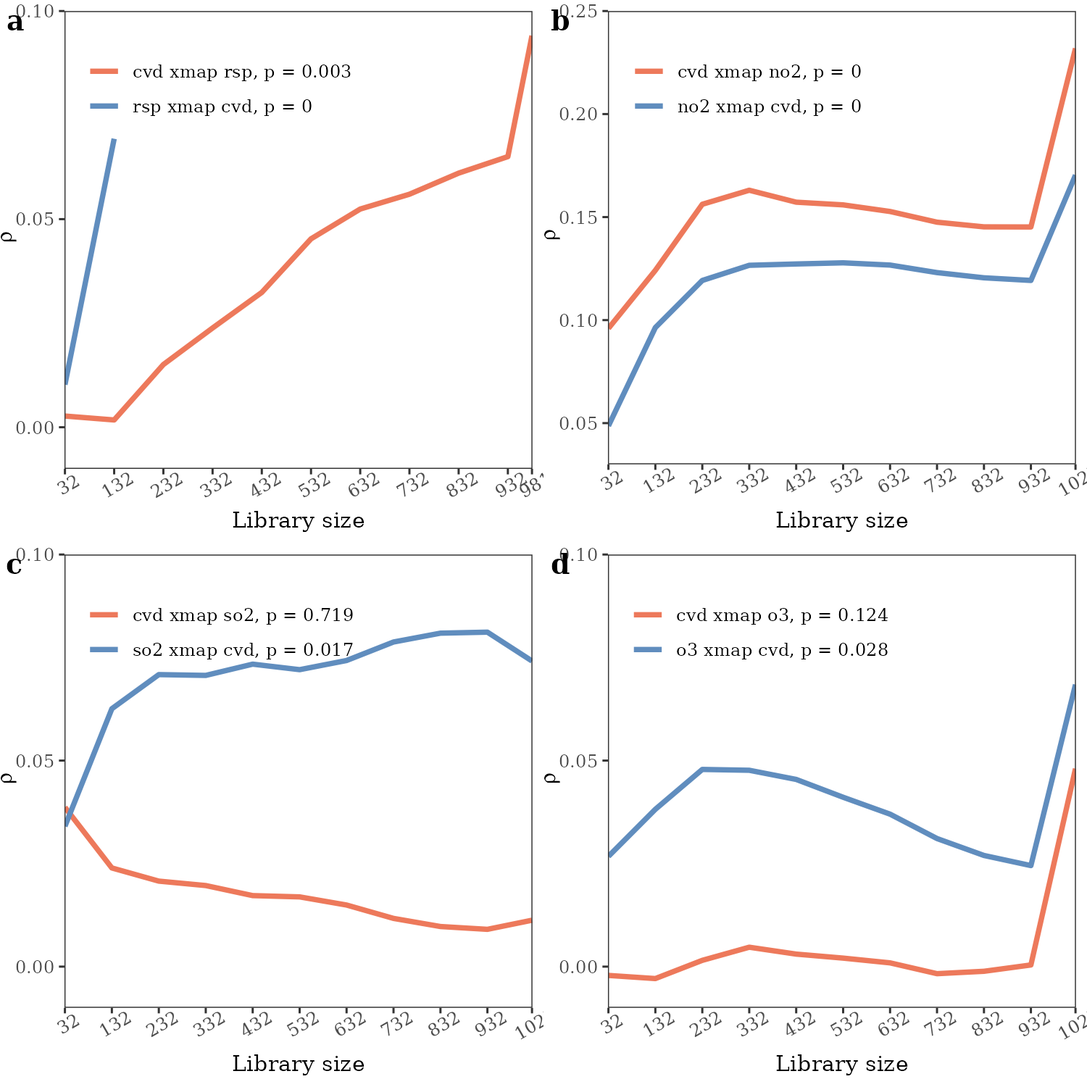
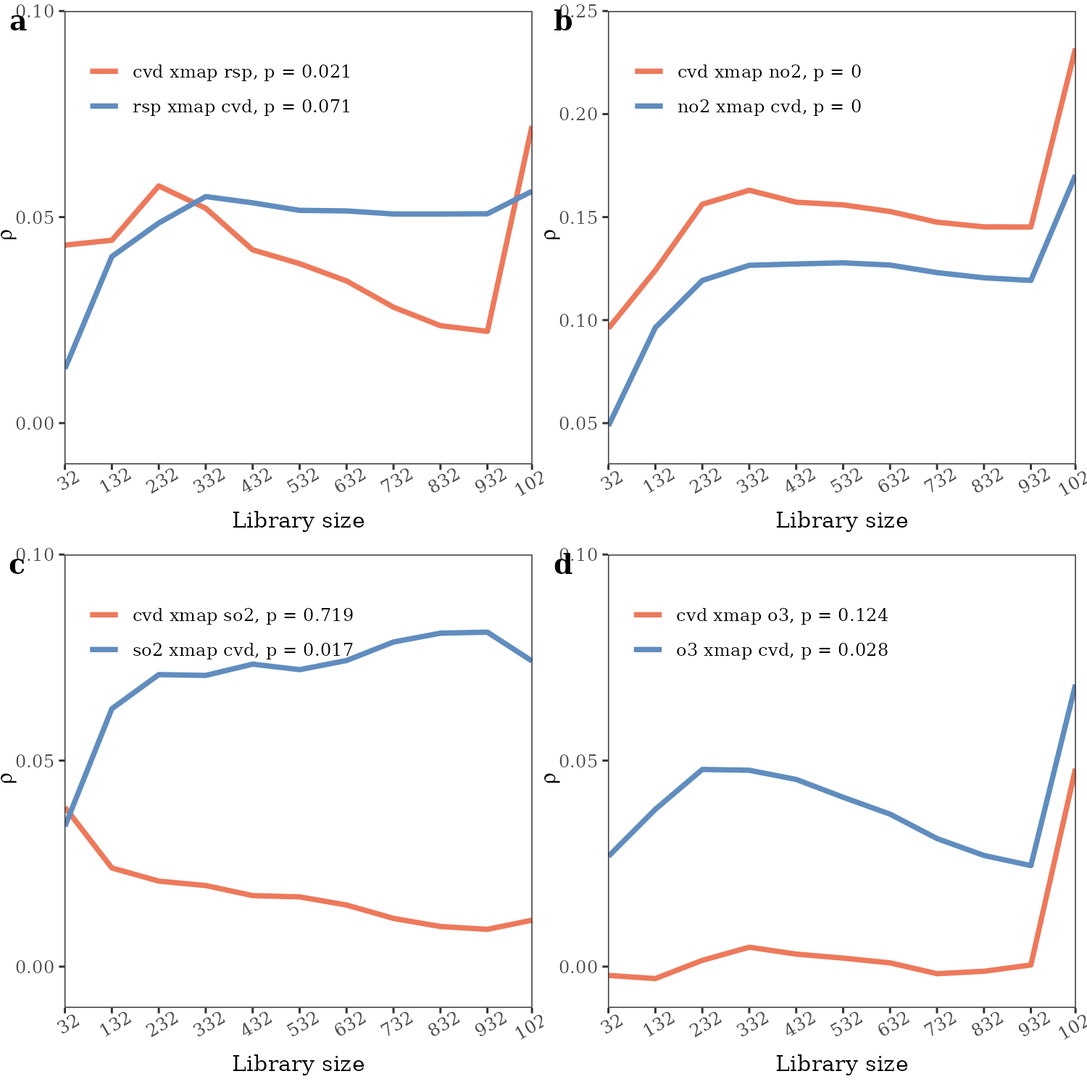
Deploying to gh-pages from @ stscl/tEDM@612b5ef85756db5e32b263942054adbb056851ff 🚀

diff --git a/articles/tEDM.html b/articles/tEDM.html
@@ -301,20 +301,20 @@ selection.</p>
 <p>We first use CCM to explore the causal influences of air pollutants
 on the incidence of cardiovascular diseases.</p>
 <div class="sourceCode" id="cb20"><pre class="downlit sourceCode r">
-<code class="sourceCode R"><span><span class="va">rsp_cvd</span> <span class="op">=</span> <span class="fu">tEDM</span><span class="fu">::</span><span class="fu"><a href="../reference/ccm.html">ccm</a></span><span class="op">(</span><span class="va">cvd</span>,<span class="st">"rsp"</span>,<span class="st">"cvd"</span>,libsizes <span class="op">=</span> <span class="fu"><a href="https://rdrr.io/r/base/seq.html" class="external-link">seq</a></span><span class="op">(</span><span class="fl">32</span>,<span class="fl">1032</span>,<span class="fl">100</span><span class="op">)</span>,E <span class="op">=</span> <span class="fl">5</span>,k <span class="op">=</span> <span class="fl">6</span>,tau <span class="op">=</span> <span class="fl">10</span>,progressbar <span class="op">=</span> <span class="cn">FALSE</span><span class="op">)</span></span>
+<code class="sourceCode R"><span><span class="va">rsp_cvd</span> <span class="op">=</span> <span class="fu">tEDM</span><span class="fu">::</span><span class="fu"><a href="../reference/ccm.html">ccm</a></span><span class="op">(</span><span class="va">cvd</span>,<span class="st">"rsp"</span>,<span class="st">"cvd"</span>,libsizes <span class="op">=</span> <span class="fu"><a href="https://rdrr.io/r/base/seq.html" class="external-link">seq</a></span><span class="op">(</span><span class="fl">32</span>,<span class="fl">1032</span>,<span class="fl">100</span><span class="op">)</span>,E <span class="op">=</span> <span class="fl">5</span>,k <span class="op">=</span> <span class="fl">6</span>,progressbar <span class="op">=</span> <span class="cn">FALSE</span><span class="op">)</span></span>
 <span><span class="va">rsp_cvd</span></span></code></pre></div>
-<pre><code><span><span class="co">##    libsizes    rsp-&gt;cvd   cvd-&gt;rsp</span></span>
-<span><span class="co">## 1        32 0.002690384 0.01023480</span></span>
-<span><span class="co">## 2       132 0.001748371 0.06931498</span></span>
-<span><span class="co">## 3       232 0.015064235 0.10838784</span></span>
-<span><span class="co">## 4       332 0.023844854 0.13292022</span></span>
-<span><span class="co">## 5       432 0.032392586 0.13824327</span></span>
-<span><span class="co">## 6       532 0.045262066 0.14058055</span></span>
-<span><span class="co">## 7       632 0.052424429 0.14163566</span></span>
-<span><span class="co">## 8       732 0.055982218 0.14136260</span></span>
-<span><span class="co">## 9       832 0.061051104 0.14261178</span></span>
-<span><span class="co">## 10      932 0.065020755 0.14407626</span></span>
-<span><span class="co">## 11      981 0.094071808 0.14984116</span></span></code></pre>
+<pre><code><span><span class="co">##    libsizes   rsp-&gt;cvd   cvd-&gt;rsp</span></span>
+<span><span class="co">## 1        32 0.04319516 0.01319450</span></span>
+<span><span class="co">## 2       132 0.04437840 0.04042972</span></span>
+<span><span class="co">## 3       232 0.05755968 0.04856251</span></span>
+<span><span class="co">## 4       332 0.05213455 0.05497566</span></span>
+<span><span class="co">## 5       432 0.04204529 0.05345864</span></span>
+<span><span class="co">## 6       532 0.03869321 0.05163371</span></span>
+<span><span class="co">## 7       632 0.03449846 0.05149252</span></span>
+<span><span class="co">## 8       732 0.02813186 0.05075322</span></span>
+<span><span class="co">## 9       832 0.02364578 0.05075094</span></span>
+<span><span class="co">## 10      932 0.02226927 0.05080212</span></span>
+<span><span class="co">## 11     1027 0.07212221 0.05626339</span></span></code></pre>
 <div class="sourceCode" id="cb22"><pre class="downlit sourceCode r">
 <code class="sourceCode R"><span><span class="va">no2_cvd</span> <span class="op">=</span> <span class="fu">tEDM</span><span class="fu">::</span><span class="fu"><a href="../reference/ccm.html">ccm</a></span><span class="op">(</span><span class="va">cvd</span>,<span class="st">"no2"</span>,<span class="st">"cvd"</span>,libsizes <span class="op">=</span> <span class="fu"><a href="https://rdrr.io/r/base/seq.html" class="external-link">seq</a></span><span class="op">(</span><span class="fl">32</span>,<span class="fl">1032</span>,<span class="fl">100</span><span class="op">)</span>,E <span class="op">=</span> <span class="fl">5</span>,k <span class="op">=</span> <span class="fu"><a href="https://rdrr.io/r/base/c.html" class="external-link">c</a></span><span class="op">(</span><span class="fl">8</span>,<span class="fl">6</span><span class="op">)</span>,progressbar <span class="op">=</span> <span class="cn">FALSE</span><span class="op">)</span></span>
 <span><span class="va">no2_cvd</span></span></code></pre></div>
@@ -368,12 +368,8 @@ on the incidence of cardiovascular diseases.</p>
 <span></span>
 <span><span class="va">fig2</span> <span class="op">=</span> <span class="fu">cowplot</span><span class="fu">::</span><span class="fu"><a href="https://wilkelab.org/cowplot/reference/plot_grid.html" class="external-link">plot_grid</a></span><span class="op">(</span><span class="va">figa</span>, <span class="va">figb</span>, <span class="va">figc</span>, <span class="va">figd</span>, ncol <span class="op">=</span> <span class="fl">2</span>,</span>
 <span>                         label_fontfamily <span class="op">=</span> <span class="st">'serif'</span>,</span>
-<span>                         labels <span class="op">=</span> <span class="va">letters</span><span class="op">[</span><span class="fl">1</span><span class="op">:</span><span class="fl">4</span><span class="op">]</span>,</span>
-<span>                         label_x <span class="op">=</span> <span class="op">-</span><span class="fl">0.005</span>, label_y <span class="op">=</span> <span class="fl">1</span><span class="op">)</span></span></code></pre></div>
-<pre><code><span><span class="co">## Warning: Removed 9 rows containing missing values or values outside the scale range</span></span>
-<span><span class="co">## (`geom_line()`).</span></span></code></pre>
-<div class="sourceCode" id="cb30"><pre class="downlit sourceCode r">
-<code class="sourceCode R"><span><span class="va">fig2</span></span></code></pre></div>
+<span>                         labels <span class="op">=</span> <span class="va">letters</span><span class="op">[</span><span class="fl">1</span><span class="op">:</span><span class="fl">4</span><span class="op">]</span><span class="op">)</span></span>
+<span><span class="va">fig2</span></span></code></pre></div>
 <div class="figure">
 <img src="tEDM_files/figure-html/fig2-1.png" alt="**Figure 2**. Cross-mapping results between different air pollutants and cardiovascular diseases." width="750"><p class="caption">
 <strong>Figure 2</strong>. Cross-mapping results between different air
@@ -395,23 +391,23 @@ causal influences:</p>
 and spatial pollution is likely reflective rather than causal.
 Therefore, we further employ CCM to examine the causal paths of cvd →
 no₂ and cvd → o₃.</p>
-<div class="sourceCode" id="cb31"><pre class="downlit sourceCode r">
+<div class="sourceCode" id="cb29"><pre class="downlit sourceCode r">
 <code class="sourceCode R"><span><span class="va">g1</span> <span class="op">=</span> <span class="fu">tEDM</span><span class="fu">::</span><span class="fu"><a href="../reference/cmc.html">cmc</a></span><span class="op">(</span><span class="va">cvd</span>,<span class="st">"o3"</span>,<span class="st">"cvd"</span>,E <span class="op">=</span> <span class="fl">5</span>,k <span class="op">=</span> <span class="fl">100</span>,progressbar <span class="op">=</span> <span class="cn">FALSE</span><span class="op">)</span></span>
 <span><span class="va">g1</span></span></code></pre></div>
 <pre><code><span><span class="co">##   neighbors o3-&gt;cvd cvd-&gt;o3</span></span>
 <span><span class="co">## 1       100  0.2344  0.5589</span></span></code></pre>
-<div class="sourceCode" id="cb33"><pre class="downlit sourceCode r">
+<div class="sourceCode" id="cb31"><pre class="downlit sourceCode r">
 <code class="sourceCode R"><span><span class="va">g1</span><span class="op">$</span><span class="va">xmap</span></span></code></pre></div>
 <pre><code><span><span class="co">##   neighbors x_xmap_y_mean x_xmap_y_sig x_xmap_y_upper x_xmap_y_lower</span></span>
 <span><span class="co">## 1       100        0.5589     0.188823      0.6467507      0.4710493</span></span>
 <span><span class="co">##   y_xmap_x_mean y_xmap_x_sig y_xmap_x_upper y_xmap_x_lower</span></span>
 <span><span class="co">## 1        0.2344 2.138197e-12      0.3085003      0.1602997</span></span></code></pre>
-<div class="sourceCode" id="cb35"><pre class="downlit sourceCode r">
+<div class="sourceCode" id="cb33"><pre class="downlit sourceCode r">
 <code class="sourceCode R"><span><span class="va">g2</span> <span class="op">=</span> <span class="fu">tEDM</span><span class="fu">::</span><span class="fu"><a href="../reference/cmc.html">cmc</a></span><span class="op">(</span><span class="va">cvd</span>,<span class="st">"no2"</span>,<span class="st">"cvd"</span>,E <span class="op">=</span> <span class="fl">5</span>,k <span class="op">=</span> <span class="fl">100</span>,progressbar <span class="op">=</span> <span class="cn">FALSE</span><span class="op">)</span></span>
 <span><span class="va">g2</span></span></code></pre></div>
 <pre><code><span><span class="co">##   neighbors no2-&gt;cvd cvd-&gt;no2</span></span>
 <span><span class="co">## 1       100   0.4833   0.5363</span></span></code></pre>
-<div class="sourceCode" id="cb37"><pre class="downlit sourceCode r">
+<div class="sourceCode" id="cb35"><pre class="downlit sourceCode r">
 <code class="sourceCode R"><span><span class="va">g2</span><span class="op">$</span><span class="va">xmap</span></span></code></pre></div>
 <pre><code><span><span class="co">##   neighbors x_xmap_y_mean x_xmap_y_sig x_xmap_y_upper x_xmap_y_lower</span></span>
 <span><span class="co">## 1       100        0.5363    0.4205595      0.6246315      0.4479685</span></span>
@@ -427,7 +423,7 @@ different air pollutants. However, due to space constraints in this
 vignette, we limit our analysis to a single test case — specifically,
 examining whether <strong>NO₂</strong> exerts a causal influence on
 <strong>Respirable Suspended Particulates (rsp)</strong>.</p>
-<div class="sourceCode" id="cb39"><pre class="downlit sourceCode r">
+<div class="sourceCode" id="cb37"><pre class="downlit sourceCode r">
 <code class="sourceCode R"><span><span class="va">no2_rsp</span> <span class="op">=</span> <span class="fu">tEDM</span><span class="fu">::</span><span class="fu"><a href="../reference/pcm.html">pcm</a></span><span class="op">(</span><span class="va">cvd</span>,<span class="st">"no2"</span>,<span class="st">"rsp"</span>,<span class="st">"cvd"</span>,libsizes <span class="op">=</span> <span class="fu"><a href="https://rdrr.io/r/base/seq.html" class="external-link">seq</a></span><span class="op">(</span><span class="fl">32</span>,<span class="fl">1032</span>,<span class="fl">100</span><span class="op">)</span>,E <span class="op">=</span> <span class="fl">5</span>,k <span class="op">=</span> <span class="fu"><a href="https://rdrr.io/r/base/c.html" class="external-link">c</a></span><span class="op">(</span><span class="fl">8</span>,<span class="fl">6</span>,<span class="fl">6</span><span class="op">)</span>,progressbar <span class="op">=</span> <span class="cn">FALSE</span><span class="op">)</span></span>
 <span><span class="va">no2_rsp</span></span></code></pre></div>
 <pre><code><span><span class="co">## -------------------------------------- </span></span>
@@ -461,14 +457,13 @@ examining whether <strong>NO₂</strong> exerts a causal influence on
 <span><span class="co">## 9       832 0.7399319 0.7481982</span></span>
 <span><span class="co">## 10      932 0.7399475 0.7481772</span></span>
 <span><span class="co">## 11     1027 0.7623938 0.7574991</span></span></code></pre>
-<div class="sourceCode" id="cb41"><pre class="downlit sourceCode r">
-<code class="sourceCode R"><span><span class="va">figa</span> <span class="op">=</span> <span class="fu"><a href="https://rdrr.io/r/graphics/plot.default.html" class="external-link">plot</a></span><span class="op">(</span><span class="va">no2_rsp</span>,ylimits <span class="op">=</span> <span class="fu"><a href="https://rdrr.io/r/base/c.html" class="external-link">c</a></span><span class="op">(</span><span class="fl">0.5</span>,<span class="fl">0.85</span><span class="op">)</span>,ybreaks <span class="op">=</span> <span class="fu"><a href="https://rdrr.io/r/base/seq.html" class="external-link">seq</a></span><span class="op">(</span><span class="fl">0.5</span>,<span class="fl">0.85</span>,<span class="fl">0.05</span><span class="op">)</span><span class="op">)</span></span>
-<span><span class="va">figb</span> <span class="op">=</span> <span class="fu"><a href="https://rdrr.io/r/graphics/plot.default.html" class="external-link">plot</a></span><span class="op">(</span><span class="va">no2_rsp</span>,partial <span class="op">=</span> <span class="cn">TRUE</span>,ylimits <span class="op">=</span> <span class="fu"><a href="https://rdrr.io/r/base/c.html" class="external-link">c</a></span><span class="op">(</span><span class="fl">0.5</span>,<span class="fl">0.85</span><span class="op">)</span>,ybreaks <span class="op">=</span> <span class="fu"><a href="https://rdrr.io/r/base/seq.html" class="external-link">seq</a></span><span class="op">(</span><span class="fl">0.5</span>,<span class="fl">0.85</span>,<span class="fl">0.05</span><span class="op">)</span><span class="op">)</span></span>
+<div class="sourceCode" id="cb39"><pre class="downlit sourceCode r">
+<code class="sourceCode R"><span><span class="va">figa</span> <span class="op">=</span> <span class="fu"><a href="https://rdrr.io/r/graphics/plot.default.html" class="external-link">plot</a></span><span class="op">(</span><span class="va">no2_rsp</span>,partial <span class="op">=</span> <span class="cn">FALSE</span>,ylimits <span class="op">=</span> <span class="fu"><a href="https://rdrr.io/r/base/c.html" class="external-link">c</a></span><span class="op">(</span><span class="fl">0.5</span>,<span class="fl">0.85</span><span class="op">)</span>,ybreaks <span class="op">=</span> <span class="fu"><a href="https://rdrr.io/r/base/seq.html" class="external-link">seq</a></span><span class="op">(</span><span class="fl">0.5</span>,<span class="fl">0.85</span>,<span class="fl">0.05</span><span class="op">)</span><span class="op">)</span></span>
+<span><span class="va">figb</span> <span class="op">=</span> <span class="fu"><a href="https://rdrr.io/r/graphics/plot.default.html" class="external-link">plot</a></span><span class="op">(</span><span class="va">no2_rsp</span>,ylimits <span class="op">=</span> <span class="fu"><a href="https://rdrr.io/r/base/c.html" class="external-link">c</a></span><span class="op">(</span><span class="fl">0.5</span>,<span class="fl">0.85</span><span class="op">)</span>,ybreaks <span class="op">=</span> <span class="fu"><a href="https://rdrr.io/r/base/seq.html" class="external-link">seq</a></span><span class="op">(</span><span class="fl">0.5</span>,<span class="fl">0.85</span>,<span class="fl">0.05</span><span class="op">)</span><span class="op">)</span></span>
 <span></span>
 <span><span class="va">fig3</span> <span class="op">=</span> <span class="fu">cowplot</span><span class="fu">::</span><span class="fu"><a href="https://wilkelab.org/cowplot/reference/plot_grid.html" class="external-link">plot_grid</a></span><span class="op">(</span><span class="va">figa</span>, <span class="va">figb</span>, ncol <span class="op">=</span> <span class="fl">2</span>,</span>
 <span>                          label_fontfamily <span class="op">=</span> <span class="st">'serif'</span>,</span>
-<span>                          labels <span class="op">=</span> <span class="va">letters</span><span class="op">[</span><span class="fl">1</span><span class="op">:</span><span class="fl">2</span><span class="op">]</span>,</span>
-<span>                          label_x <span class="op">=</span> <span class="op">-</span><span class="fl">0.005</span>, label_y <span class="op">=</span> <span class="fl">1</span><span class="op">)</span></span>
+<span>                          labels <span class="op">=</span> <span class="va">letters</span><span class="op">[</span><span class="fl">1</span><span class="op">:</span><span class="fl">2</span><span class="op">]</span><span class="op">)</span></span>
 <span><span class="va">fig3</span></span></code></pre></div>
 <div class="figure">
 <img src="tEDM_files/figure-html/fig3-1.png" alt="**Figure 3**. Cross-mapping results between no₂ and respirable suspended particulates. **a**. CCM results without accounting for other variables. **b**. PCM results controlling for the influence of CVDs." width="650"><p class="caption">
@@ -484,11 +479,11 @@ differences and are both statistically significant, indicating the
 presence of a causal relationship between the two. Therefore, the final
 set of confirmed causal pathways is as follows (exclude those with no
 causal influence on CVDs):</p>
-<pre class="mermaid"><code>graph TD
-  rsp[Respirable suspended particulates (rsp)] --&gt; cvd[Cardiovascular diseases (cvd)]
-  no2[Nitrogen dioxide (no₂)] --&gt; cvd
-  no2 --&gt; rsp
-  rsp --&gt; no2</code></pre>
+<div class="float">
+<img src="../reference/figures/edm/hk-cvd.png" alt="Figure 4. Causal interactions between air pollutants and cardiovascular diseases in Hong Kong."><div class="figcaption">
+<strong>Figure 4</strong>. Causal interactions
+between air pollutants and cardiovascular diseases in Hong Kong.</div>
+</div>
 </div>
 <div class="section level3">
 <h3 id="us-county-carbon-emissions-and-temperature-dynamics">US County Carbon Emissions and Temperature Dynamics<a class="anchor" aria-label="anchor" href="#us-county-carbon-emissions-and-temperature-dynamics"></a>
@@ -496,7 +491,7 @@ causal influence on CVDs):</p>
 <p>To examine whether a causal relationship exists between annual mean
 temperature and total annual CO₂ emissions, we implement the CMC method
 across counties.</p>
-<div class="sourceCode" id="cb43"><pre class="downlit sourceCode r">
+<div class="sourceCode" id="cb40"><pre class="downlit sourceCode r">
 <code class="sourceCode R"><span><span class="kw"><a href="https://rdrr.io/r/base/library.html" class="external-link">library</a></span><span class="op">(</span><span class="va"><a href="https://stscl.github.io/tEDM/">tEDM</a></span><span class="op">)</span></span>
 <span></span>
 <span><span class="va">carbon</span> <span class="op">=</span> <span class="fu">readr</span><span class="fu">::</span><span class="fu"><a href="https://readr.tidyverse.org/reference/read_delim.html" class="external-link">read_csv</a></span><span class="op">(</span><span class="fu"><a href="https://rdrr.io/r/base/system.file.html" class="external-link">system.file</a></span><span class="op">(</span><span class="st">"case/carbon.csv.gz"</span>,package <span class="op">=</span> <span class="st">"tEDM"</span><span class="op">)</span><span class="op">)</span></span></code></pre></div>
@@ -507,7 +502,7 @@ across counties.</p>
 <span><span class="co">## </span></span>
 <span><span class="co">## <span style="color: #00BBBB;">ℹ</span> Use `spec()` to retrieve the full column specification for this data.</span></span>
 <span><span class="co">## <span style="color: #00BBBB;">ℹ</span> Specify the column types or set `show_col_types = FALSE` to quiet this message.</span></span></code></pre>
-<div class="sourceCode" id="cb45"><pre class="downlit sourceCode r">
+<div class="sourceCode" id="cb42"><pre class="downlit sourceCode r">
 <code class="sourceCode R"><span><span class="fu"><a href="https://rdrr.io/r/utils/head.html" class="external-link">head</a></span><span class="op">(</span><span class="va">carbon</span><span class="op">)</span></span></code></pre></div>
 <pre><code><span><span class="co">## <span style="color: #949494;"># A tibble: 6 × 4</span></span></span>
 <span><span class="co">##    year  fips   tem     carbon</span></span>
@@ -518,13 +513,13 @@ across counties.</p>
 <span><span class="co">## <span style="color: #BCBCBC;">4</span>  <span style="text-decoration: underline;">1</span>984  <span style="text-decoration: underline;">1</span>001  17.8 199<span style="text-decoration: underline;">157</span>579.</span></span>
 <span><span class="co">## <span style="color: #BCBCBC;">5</span>  <span style="text-decoration: underline;">1</span>985  <span style="text-decoration: underline;">1</span>001  17.9 205<span style="text-decoration: underline;">207</span>564.</span></span>
 <span><span class="co">## <span style="color: #BCBCBC;">6</span>  <span style="text-decoration: underline;">1</span>986  <span style="text-decoration: underline;">1</span>001  18.5 218<span style="text-decoration: underline;">446</span>030.</span></span></code></pre>
-<div class="sourceCode" id="cb47"><pre class="downlit sourceCode r">
+<div class="sourceCode" id="cb44"><pre class="downlit sourceCode r">
 <code class="sourceCode R"><span><span class="va">carbon_list</span> <span class="op">=</span> <span class="fu">dplyr</span><span class="fu">::</span><span class="fu"><a href="https://dplyr.tidyverse.org/reference/group_split.html" class="external-link">group_split</a></span><span class="op">(</span><span class="va">carbon</span>, by <span class="op">=</span> <span class="va">fips</span><span class="op">)</span></span>
 <span><span class="fu"><a href="https://rdrr.io/r/base/length.html" class="external-link">length</a></span><span class="op">(</span><span class="va">carbon_list</span><span class="op">)</span></span></code></pre></div>
 <pre><code><span><span class="co">## [1] 3071</span></span></code></pre>
 <p>Using the 100th county as an example, we determine the appropriate
 embedding dimension by applying the FNN method.</p>
-<div class="sourceCode" id="cb49"><pre class="downlit sourceCode r">
+<div class="sourceCode" id="cb46"><pre class="downlit sourceCode r">
 <code class="sourceCode R"><span><span class="fu">tEDM</span><span class="fu">::</span><span class="fu"><a href="../reference/fnn.html">fnn</a></span><span class="op">(</span><span class="va">carbon_list</span><span class="op">[[</span><span class="fl">100</span><span class="op">]</span><span class="op">]</span>,<span class="st">"carbon"</span>,E <span class="op">=</span> <span class="fl">2</span><span class="op">:</span><span class="fl">10</span>,eps <span class="op">=</span> <span class="fu">stats</span><span class="fu">::</span><span class="fu"><a href="https://rdrr.io/r/stats/sd.html" class="external-link">sd</a></span><span class="op">(</span><span class="va">carbon_list</span><span class="op">[[</span><span class="fl">100</span><span class="op">]</span><span class="op">]</span><span class="op">$</span><span class="va">carbon</span><span class="op">)</span><span class="op">)</span></span></code></pre></div>
 <pre><code><span><span class="co">##        E:1        E:2        E:3        E:4        E:5        E:6        E:7 </span></span>
 <span><span class="co">## 0.58823529 0.23529412 0.23529412 0.17647059 0.05882353 0.00000000 0.00000000 </span></span>
@@ -533,7 +528,7 @@ embedding dimension by applying the FNN method.</p>
 <p>When E equals 6, the FNN ratio begins to drop to zero; therefore, we
 select <span class="math inline">\(E = 6\)</span> as the embedding
 dimension for the CMC analysis.</p>
-<div class="sourceCode" id="cb51"><pre class="downlit sourceCode r">
+<div class="sourceCode" id="cb48"><pre class="downlit sourceCode r">
 <code class="sourceCode R"><span><span class="va">res</span> <span class="op">=</span> <span class="va">carbon_list</span> <span class="op">|&gt;</span> </span>
 <span>  <span class="fu">purrr</span><span class="fu">::</span><span class="fu"><a href="https://purrr.tidyverse.org/reference/map_dfr.html" class="external-link">map_dfr</a></span><span class="op">(</span>\<span class="op">(</span><span class="va">.x</span><span class="op">)</span> <span class="op">{</span></span>
 <span>    <span class="va">g</span> <span class="op">=</span> <span class="fu">tEDM</span><span class="fu">::</span><span class="fu"><a href="../reference/cmc.html">cmc</a></span><span class="op">(</span><span class="va">.x</span>,<span class="st">"tem"</span>,<span class="st">"carbon"</span>,E <span class="op">=</span> <span class="fl">6</span>,k <span class="op">=</span> <span class="fl">20</span>,progressbar <span class="op">=</span> <span class="cn">FALSE</span><span class="op">)</span></span>
@@ -554,7 +549,7 @@ dimension for the CMC analysis.</p>
 <span><span class="co">## 4       0.04375 2.129338e-31      0.1204663              0</span></span>
 <span><span class="co">## 5       0.04500 1.570561e-32      0.1200890              0</span></span>
 <span><span class="co">## 6       0.03750 2.118657e-39      0.1065211              0</span></span></code></pre>
-<div class="sourceCode" id="cb53"><pre class="downlit sourceCode r">
+<div class="sourceCode" id="cb50"><pre class="downlit sourceCode r">
 <code class="sourceCode R"><span><span class="va">res_carbon</span> <span class="op">=</span> <span class="va">res</span> <span class="op">|&gt;</span> </span>
 <span>  <span class="fu">dplyr</span><span class="fu">::</span><span class="fu"><a href="https://dplyr.tidyverse.org/reference/select.html" class="external-link">select</a></span><span class="op">(</span><span class="va">neighbors</span>,</span>
 <span>                carbon_tem <span class="op">=</span> <span class="va">x_xmap_y_mean</span>,</span>
@@ -571,7 +566,7 @@ dimension for the CMC analysis.</p>
 <span><span class="co">## <span style="color: #BCBCBC;">4</span>        20 tem_carbon 0.042<span style="text-decoration: underline;">5</span></span></span>
 <span><span class="co">## <span style="color: #BCBCBC;">5</span>        20 carbon_tem 0.151 </span></span>
 <span><span class="co">## <span style="color: #BCBCBC;">6</span>        20 tem_carbon 0.043<span style="text-decoration: underline;">8</span></span></span></code></pre>
-<div class="sourceCode" id="cb55"><pre class="downlit sourceCode r">
+<div class="sourceCode" id="cb52"><pre class="downlit sourceCode r">
 <code class="sourceCode R"><span><span class="va">fig_case2</span> <span class="op">=</span> <span class="fu">ggplot2</span><span class="fu">::</span><span class="fu"><a href="https://ggplot2.tidyverse.org/reference/ggplot.html" class="external-link">ggplot</a></span><span class="op">(</span><span class="va">res_carbon</span>, </span>
 <span>                            <span class="fu">ggplot2</span><span class="fu">::</span><span class="fu"><a href="https://ggplot2.tidyverse.org/reference/aes.html" class="external-link">aes</a></span><span class="op">(</span>x <span class="op">=</span> <span class="va">variable</span>, y <span class="op">=</span> <span class="va">value</span>, fill <span class="op">=</span> <span class="va">variable</span><span class="op">)</span><span class="op">)</span> <span class="op">+</span></span>
 <span>  <span class="fu">ggplot2</span><span class="fu">::</span><span class="fu"><a href="https://ggplot2.tidyverse.org/reference/geom_boxplot.html" class="external-link">geom_boxplot</a></span><span class="op">(</span><span class="op">)</span> <span class="op">+</span></span>
@@ -595,7 +590,7 @@ embedding dimension E set to 6 and number of neighbors set to 20.
 <p>We examine the COVID-19 transmission between Tokyo and other
 prefectures by applying CCM to identify the underlying causal dynamics
 of the epidemic spread</p>
-<div class="sourceCode" id="cb56"><pre class="downlit sourceCode r">
+<div class="sourceCode" id="cb53"><pre class="downlit sourceCode r">
 <code class="sourceCode R"><span><span class="kw"><a href="https://rdrr.io/r/base/library.html" class="external-link">library</a></span><span class="op">(</span><span class="va"><a href="https://stscl.github.io/tEDM/">tEDM</a></span><span class="op">)</span></span>
 <span></span>
 <span><span class="va">covid</span> <span class="op">=</span> <span class="fu">readr</span><span class="fu">::</span><span class="fu"><a href="https://readr.tidyverse.org/reference/read_delim.html" class="external-link">read_csv</a></span><span class="op">(</span><span class="fu"><a href="https://rdrr.io/r/base/system.file.html" class="external-link">system.file</a></span><span class="op">(</span><span class="st">"case/covid.csv"</span>,package <span class="op">=</span> <span class="st">"tEDM"</span><span class="op">)</span><span class="op">)</span></span></code></pre></div>
@@ -606,7 +601,7 @@ of the epidemic spread</p>
 <span><span class="co">## </span></span>
 <span><span class="co">## <span style="color: #00BBBB;">ℹ</span> Use `spec()` to retrieve the full column specification for this data.</span></span>
 <span><span class="co">## <span style="color: #00BBBB;">ℹ</span> Specify the column types or set `show_col_types = FALSE` to quiet this message.</span></span></code></pre>
-<div class="sourceCode" id="cb58"><pre class="downlit sourceCode r">
+<div class="sourceCode" id="cb55"><pre class="downlit sourceCode r">
 <code class="sourceCode R"><span><span class="fu"><a href="https://rdrr.io/r/utils/head.html" class="external-link">head</a></span><span class="op">(</span><span class="va">covid</span><span class="op">)</span></span></code></pre></div>
 <pre><code><span><span class="co">## <span style="color: #949494;"># A tibble: 6 × 47</span></span></span>
 <span><span class="co">##   Hokkaido Aomori Iwate Miyagi Akita Yamagata Fukushima Ibaraki Tochigi Gunma</span></span>
@@ -625,13 +620,13 @@ of the epidemic spread</p>
 <span><span class="co">## <span style="color: #949494;">#   Hiroshima &lt;dbl&gt;, Yamaguchi &lt;dbl&gt;, Tokushima &lt;dbl&gt;, Kagawa &lt;dbl&gt;,</span></span></span>
 <span><span class="co">## <span style="color: #949494;">#   Ehime &lt;dbl&gt;, Kochi &lt;dbl&gt;, Fukuoka &lt;dbl&gt;, Saga &lt;dbl&gt;, Nagasaki &lt;dbl&gt;, …</span></span></span></code></pre>
 <p>The data are first differenced:</p>
-<div class="sourceCode" id="cb60"><pre class="downlit sourceCode r">
+<div class="sourceCode" id="cb57"><pre class="downlit sourceCode r">
 <code class="sourceCode R"><span><span class="va">covid</span> <span class="op">=</span> <span class="va">covid</span> <span class="op">|&gt;</span> </span>
 <span>  <span class="fu">dplyr</span><span class="fu">::</span><span class="fu"><a href="https://dplyr.tidyverse.org/reference/mutate.html" class="external-link">mutate</a></span><span class="op">(</span><span class="fu">dplyr</span><span class="fu">::</span><span class="fu"><a href="https://dplyr.tidyverse.org/reference/across.html" class="external-link">across</a></span><span class="op">(</span><span class="fu">dplyr</span><span class="fu">::</span><span class="fu"><a href="https://tidyselect.r-lib.org/reference/everything.html" class="external-link">everything</a></span><span class="op">(</span><span class="op">)</span>,</span>
 <span>                              \<span class="op">(</span><span class="va">.x</span><span class="op">)</span> <span class="fu"><a href="https://rdrr.io/r/base/c.html" class="external-link">c</a></span><span class="op">(</span><span class="cn">NA</span>,<span class="fu"><a href="https://rdrr.io/r/base/diff.html" class="external-link">diff</a></span><span class="op">(</span><span class="va">.x</span><span class="op">)</span><span class="op">)</span><span class="op">)</span><span class="op">)</span></span></code></pre></div>
 <p>Using Tokyo’s COVID-19 infection data to test the optimal embedding
 dimension.</p>
-<div class="sourceCode" id="cb61"><pre class="downlit sourceCode r">
+<div class="sourceCode" id="cb58"><pre class="downlit sourceCode r">
 <code class="sourceCode R"><span><span class="fu">tEDM</span><span class="fu">::</span><span class="fu"><a href="../reference/fnn.html">fnn</a></span><span class="op">(</span><span class="va">covid</span>,<span class="st">"Tokyo"</span>,E <span class="op">=</span> <span class="fl">2</span><span class="op">:</span><span class="fl">30</span>,eps <span class="op">=</span> <span class="fu">stats</span><span class="fu">::</span><span class="fu"><a href="https://rdrr.io/r/stats/sd.html" class="external-link">sd</a></span><span class="op">(</span><span class="va">covid</span><span class="op">$</span><span class="va">Tokyo</span><span class="op">)</span><span class="op">)</span></span></code></pre></div>
 <pre><code><span><span class="co">##        E:1        E:2        E:3        E:4        E:5        E:6        E:7 </span></span>
 <span><span class="co">## 0.82432432 0.43333333 0.14598540 0.07664234 0.06934307 0.05474453 0.03284672 </span></span>
@@ -647,10 +642,10 @@ dimension.</p>
 embedding dimensions from 11 onward are evaluated, and the pair of E and
 k yielding the highest self-prediction accuracy is selected for the CCM
 procedure.</p>
-<div class="sourceCode" id="cb63"><pre class="downlit sourceCode r">
+<div class="sourceCode" id="cb60"><pre class="downlit sourceCode r">
 <code class="sourceCode R"><span><span class="fu">tEDM</span><span class="fu">::</span><span class="fu"><a href="../reference/simplex.html">simplex</a></span><span class="op">(</span><span class="va">covid</span>,<span class="st">"Tokyo"</span>,<span class="st">"Tokyo"</span>,E <span class="op">=</span> <span class="fl">11</span><span class="op">:</span><span class="fl">50</span>,k <span class="op">=</span> <span class="fl">15</span><span class="op">:</span><span class="fl">60</span><span class="op">)</span></span></code></pre></div>
 <pre><code><span><span class="co">## The suggested E and k for variable Tokyo is 11 and 16</span></span></code></pre>
-<div class="sourceCode" id="cb65"><pre class="downlit sourceCode r">
+<div class="sourceCode" id="cb62"><pre class="downlit sourceCode r">
 <code class="sourceCode R"><span><span class="va">res</span> <span class="op">=</span> <span class="fu"><a href="https://rdrr.io/r/base/names.html" class="external-link">names</a></span><span class="op">(</span><span class="va">covid</span><span class="op">)</span><span class="op">[</span><span class="op">-</span><span class="fu"><a href="https://rdrr.io/r/base/match.html" class="external-link">match</a></span><span class="op">(</span><span class="st">"Tokyo"</span>,<span class="fu"><a href="https://rdrr.io/r/base/names.html" class="external-link">names</a></span><span class="op">(</span><span class="va">covid</span><span class="op">)</span><span class="op">)</span><span class="op">]</span> <span class="op">|&gt;</span> </span>
 <span>  <span class="fu">purrr</span><span class="fu">::</span><span class="fu"><a href="https://purrr.tidyverse.org/reference/map_dfr.html" class="external-link">map_dfr</a></span><span class="op">(</span>\<span class="op">(</span><span class="va">.l</span><span class="op">)</span> <span class="op">{</span></span>
 <span>    <span class="va">g</span> <span class="op">=</span> <span class="fu">tEDM</span><span class="fu">::</span><span class="fu"><a href="../reference/ccm.html">ccm</a></span><span class="op">(</span><span class="va">covid</span>,<span class="st">"Tokyo"</span>,<span class="va">.l</span>,E <span class="op">=</span> <span class="fl">11</span>,k <span class="op">=</span> <span class="fl">16</span>,tau <span class="op">=</span> <span class="fl">0</span>,progressbar <span class="op">=</span> <span class="cn">FALSE</span><span class="op">)</span></span>
@@ -672,7 +667,7 @@ procedure.</p>
 <span><span class="co">## 4     0.7972467 2.392638e-72      0.7536909      0.8338302 Tokyo   Miyagi</span></span>
 <span><span class="co">## 5     0.4590275 3.079043e-18      0.3683504      0.5410534 Tokyo    Akita</span></span>
 <span><span class="co">## 6     0.5694476 3.704062e-29      0.4908197      0.6388748 Tokyo Yamagata</span></span></code></pre>
-<div class="sourceCode" id="cb67"><pre class="downlit sourceCode r">
+<div class="sourceCode" id="cb64"><pre class="downlit sourceCode r">
 <code class="sourceCode R"><span><span class="va">df1</span> <span class="op">=</span> <span class="va">res</span> <span class="op">|&gt;</span></span>
 <span>    <span class="fu">dplyr</span><span class="fu">::</span><span class="fu"><a href="https://dplyr.tidyverse.org/reference/select.html" class="external-link">select</a></span><span class="op">(</span><span class="va">x</span>,<span class="va">y</span>,<span class="va">y_xmap_x_mean</span>,<span class="va">y_xmap_x_sig</span><span class="op">)</span><span class="op">|&gt;</span></span>
 <span>    <span class="fu">purrr</span><span class="fu">::</span><span class="fu"><a href="https://rlang.r-lib.org/reference/set_names.html" class="external-link">set_names</a></span><span class="op">(</span><span class="fu"><a href="https://rdrr.io/r/base/c.html" class="external-link">c</a></span><span class="op">(</span><span class="st">"cause"</span>,<span class="st">"effect"</span>,<span class="st">"cs"</span>,<span class="st">"sig"</span><span class="op">)</span><span class="op">)</span></span>
